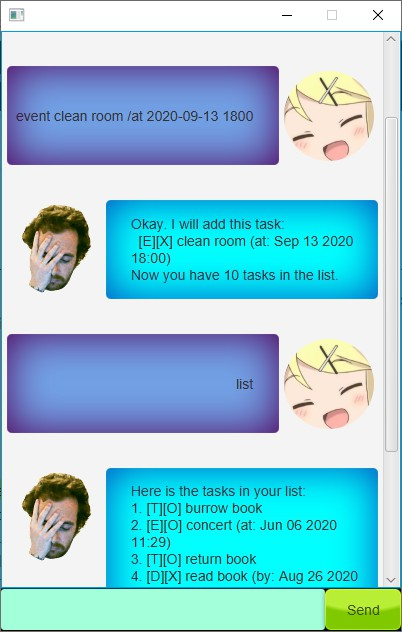
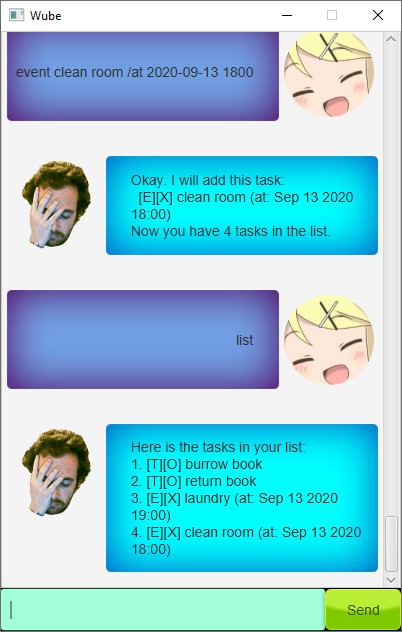
Add new Ui.png

diff --git a/src/main/java/duke/Main.java b/src/main/java/duke/Main.java
@@ -24,6 +24,7 @@ public class Main extends Application {
             AnchorPane ap = fxmlLoader.load();
             Scene scene = new Scene(ap);
             stage.setScene(scene);
+            stage.setTitle("Wube");
             fxmlLoader.<MainWindow>getController().setDuke(duke);
             stage.setResizable(false);
             stage.show();

diff --git a/src/main/java/duke/utility/Ui.java b/src/main/java/duke/utility/Ui.java
@@ -37,7 +37,7 @@ public class Ui {
      * Welcomes the user when the user starts Duke.
      */
     public String welcome() {
-        return "Hi! My name is Duke.\nWhat do you want me to do?";
+        return "Hi! My name is Wube.\nWhat do you want me to do?";
     }
 
     /**
